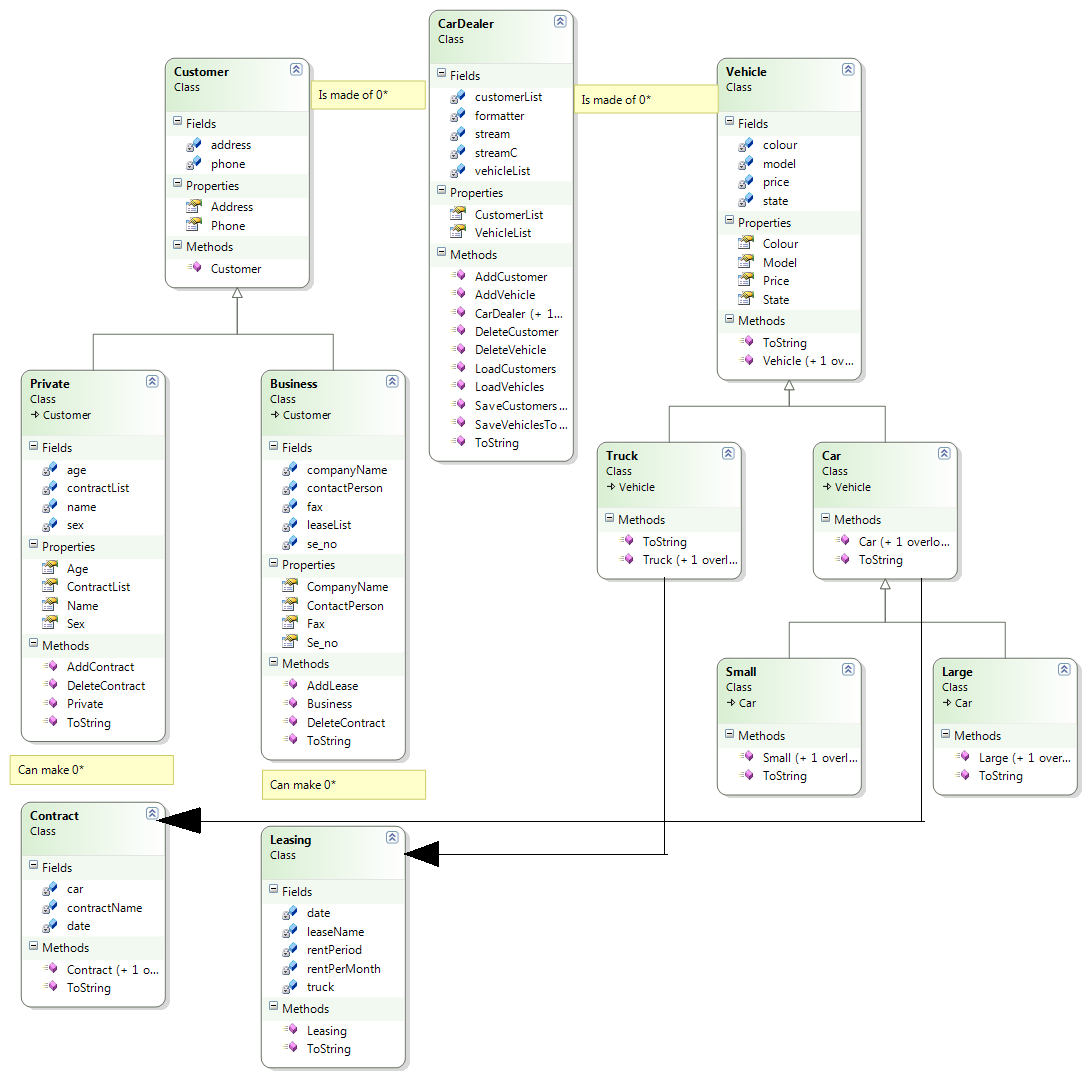
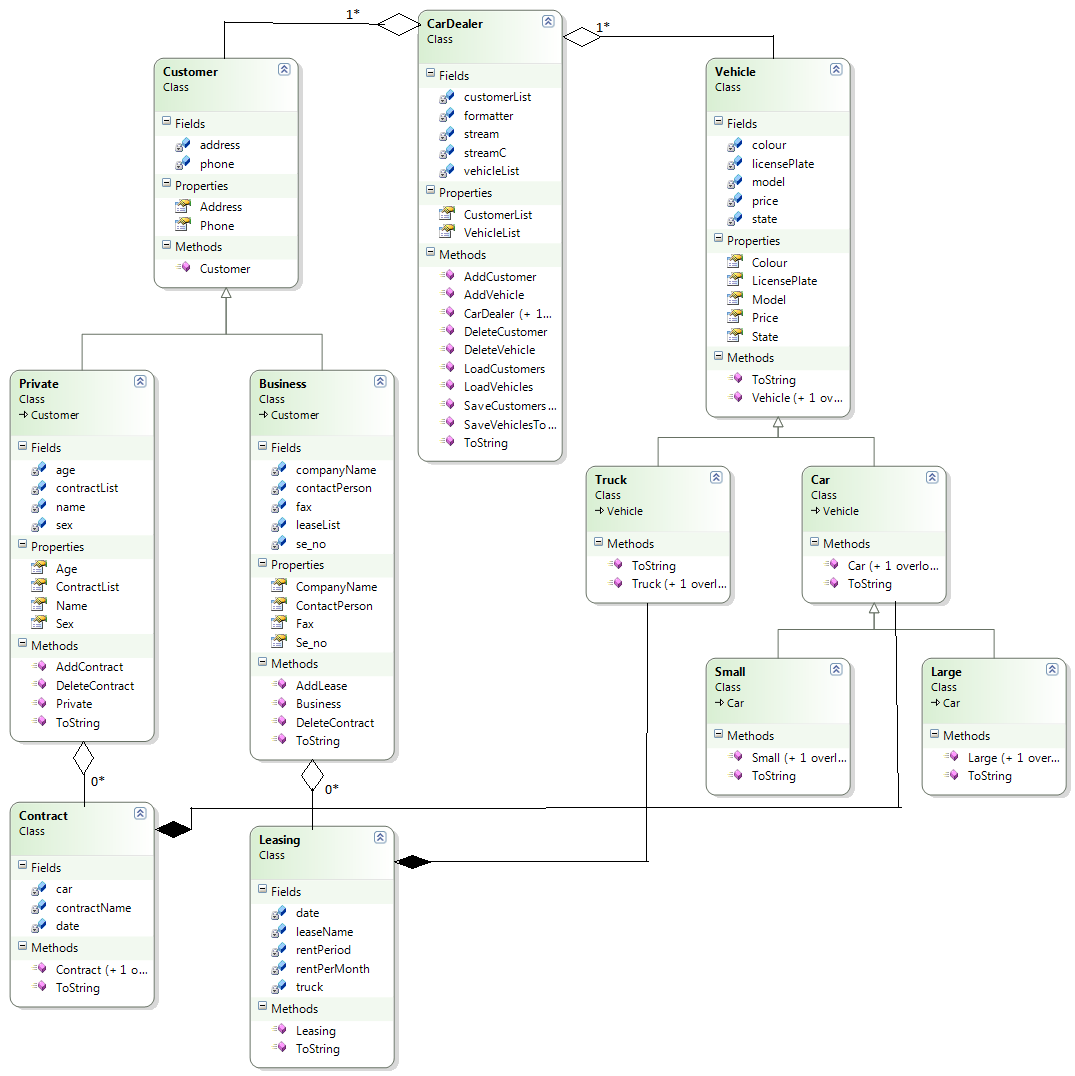
class diagram updated

diff --git a/ConsoleApplication1/Program.cs b/ConsoleApplication1/Program.cs
@@ -80,13 +80,13 @@ namespace ConsoleApplication15
                 CD_DeserializedStuff.CustomerList = CD.LoadCustomers();
                 Console.Out.WriteLine(CD_DeserializedStuff.ToString());
 
-               // Console.Clear();
+                Console.Clear();
 
                 String addressToFind = "address";
 
                 //CHANGED DELETE METHOD, now works :D
                 CD_DeserializedStuff.DeleteCustomer(addressToFind);
-                CD_DeserializedStuff.DeleteVehicle("111");
+                CD_DeserializedStuff.DeleteVehicle("M 3453 GDS");
                 Console.Out.WriteLine(CD_DeserializedStuff.ToString());
 
 
